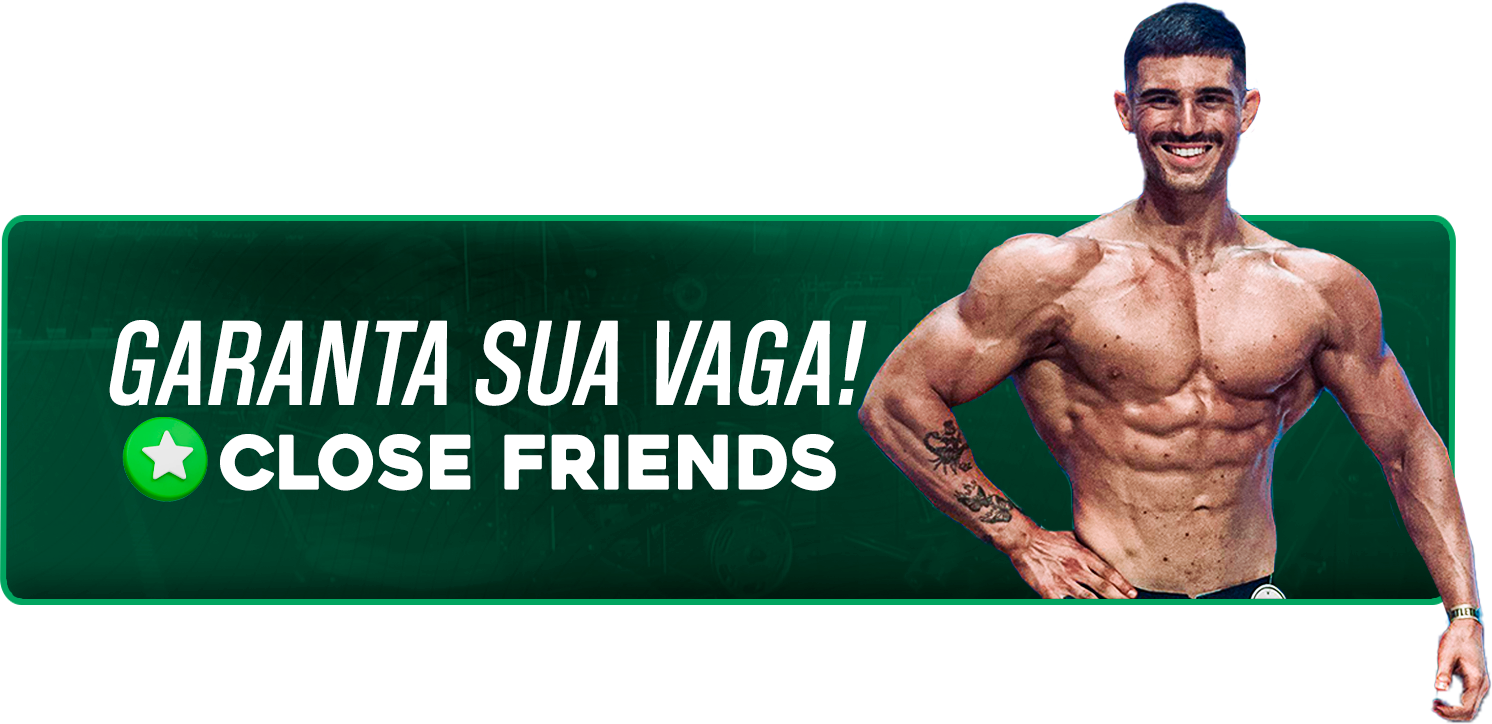
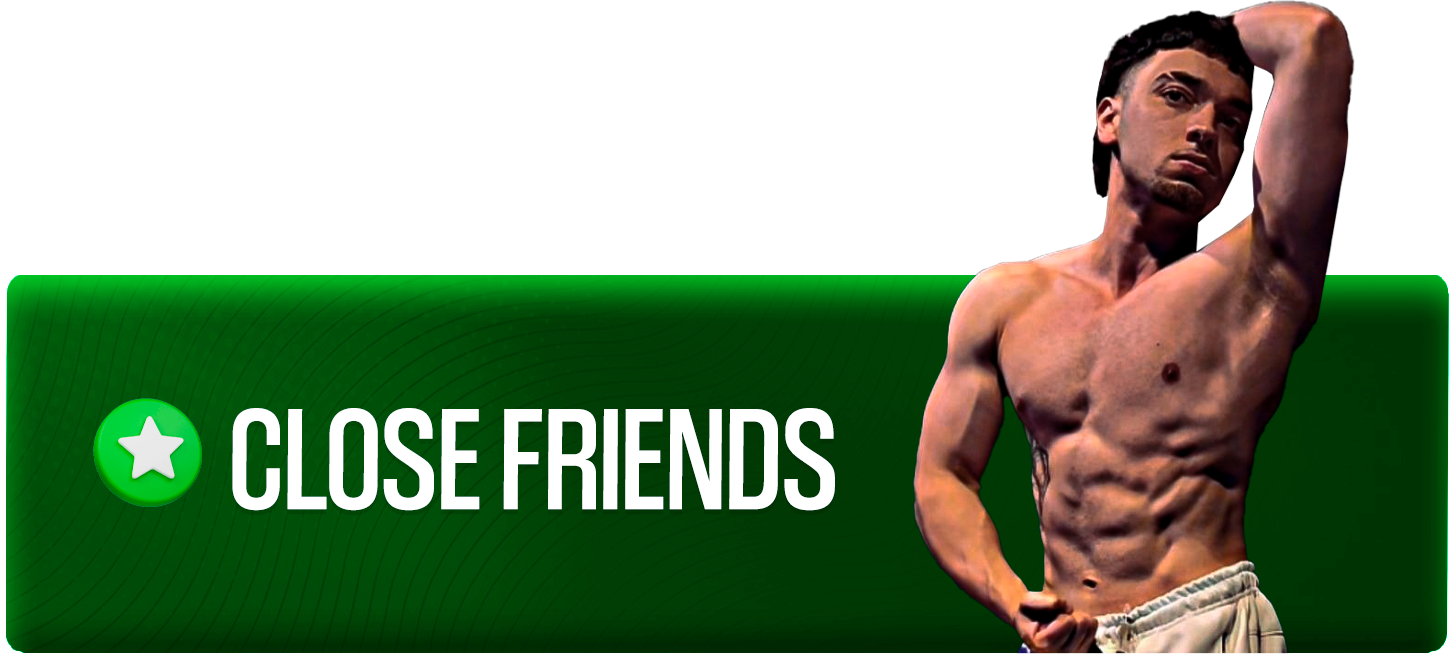
Atualização do linkbio: centralização de imagens e padronização de espaçamentos

diff --git a/index.html b/index.html
@@ -13,32 +13,30 @@
         <div class="header">
             <div class="profile-image">
                             <div class="profile-image2">
-<img src="gustavo.png" alt="Gustavo Zollim" style="margin-bottom: -45px">
+<img src="gustavo.png" alt="Gustavo Zollim">
 </div>
                 <img src="gustavo-profile.png" alt="Gustavo Zollim">
-            <div class="profile-image2">
-                                            <img src="zollim.png" alt="Gustavo Zollim" style="margin-top: -65px; margin-left: 150px;">
-</div>
+
             </div>
 
         </div>
 
         <!-- Ícones das redes sociais -->
         <div class="social-icons">
-            <a href="https://www.instagram.com/eu_zollim/" class="social-icon instagram" target="_blank">
+            <a href="https://www.instagram.com/hoierr_/" class="social-icon instagram" target="_blank">
                     <i class="fab fa-instagram"></i>
                 </a>
-            <a href="https://www.youtube.com/@eu_zollim_" class="social-icon youtube" target="_blank">
+            <a href="https://www.youtube.com/@hoierr_gym" class="social-icon youtube" target="_blank">
                  <i class="fab fa-youtube"></i>
              </a>
-            <a href="https://www.tiktok.com/@zollim?" class="social-icon tiktok" target="_blank">
+            <a href="https://www.tiktok.com/@hoierr_" class="social-icon tiktok" target="_blank">
                  <i class="fab fa-tiktok"></i>
              </a>
         </div>
 
         <!-- Conteúdo direto na página -->
         <div class="direct-content">
-            <a href="https://zollim.com.br" target="_blank">
+            <a href="https://grupo.hoier.com.br/" target="_blank">
                 <img src="cf.png" alt="Fila de Espera do CF" class="cf-banner">
             </a>
         </div>
@@ -46,11 +44,11 @@
         <!-- Cards de links -->
         <div class="link-cards">
 
-            <a href="https://www.youtube.com/@eu_zollim_" target="_blank">
+            <a href="https://berzerk.com.br/" target="_blank">
                  <img src="youtube.png" alt="Canal do YouTube" class="youtube-banner">
              </a>
 
-            <a href="https://www.gsuplementos.com.br/" target="_blank">
+            <a href="https://www.integralmedica.com.br/" target="_blank">
                  <img src="growth.png" alt="Growth Supplements - Cupom ZOLLIM" class="growth-banner">
              </a>
         </div>

diff --git a/style.css b/style.css
@@ -26,6 +26,9 @@ body {
 
 .header {
     margin-bottom: 40px;
+    display: flex;
+    justify-content: center;
+    align-items: center;
 }
 
 .profile-image {
@@ -34,14 +37,24 @@ body {
     border-radius: 20px;
     overflow: hidden;
     position: relative;
+    margin: 0 auto;
+    display: block;
 }
 
 .profile-image img {
     width: 100%;
     height: 100%;
     object-fit: cover;
+    display: block;
+    margin: 0 auto;
+    text-align: center;
 }
 
+.profile-image2 {
+    margin: 0 auto;
+    display: block;
+    text-align: center;
+}
 
 
 
@@ -112,10 +125,20 @@ body {
 
 /* Conteúdo direto na página */
 .direct-content {
-    margin-bottom: 50px;
+    margin-bottom: 25px;
     width: 100%;
     max-width: 500px;
     animation: slideInUp 0.8s ease-out 0.6s both;
+    display: flex;
+    justify-content: center;
+    align-items: center;
+}
+
+/* Centralização global para todas as imagens */
+img {
+    display: block;
+    margin: 0 auto !important;
+    text-align: center;
 }
 
 .cf-banner,
@@ -126,15 +149,22 @@ body {
     border-radius: 20px;
     box-shadow: 0 10px 30px rgba(0, 0, 0, 0.3);
     transition: transform 0.3s ease, box-shadow 0.3s ease;
+    display: block;
+    margin: 0 auto;
+    text-align: center;
+    margin-bottom: 25px;
 }
 
 .cf-banner {
-    margin-bottom: -20px;
+    margin-bottom: 25px;
 }
 
-.youtube-banner,
+.youtube-banner {
+    margin-bottom: 25px;
+}
+
 .growth-banner {
-    margin-top: -20px;
+    margin-bottom: 0;
 }
 
 .cf-banner:hover,
@@ -196,6 +226,9 @@ body {
     width: 100%;
     height: 100%;
     object-fit: cover;
+    display: block;
+    margin: 0 auto;
+    text-align: center;
 }
 
 .card-red {
@@ -259,6 +292,9 @@ body {
     width: 100%;
     height: 100%;
     object-fit: cover;
+    display: block;
+    margin: 0 auto;
+    text-align: center;
 }
 
 /* Responsividade */
@@ -277,6 +313,9 @@ body {
     }
         .profile-image2 {
         width: 250px;
+        margin: 0 auto;
+        display: block;
+        text-align: center;
     }
     
     .social-icon {
